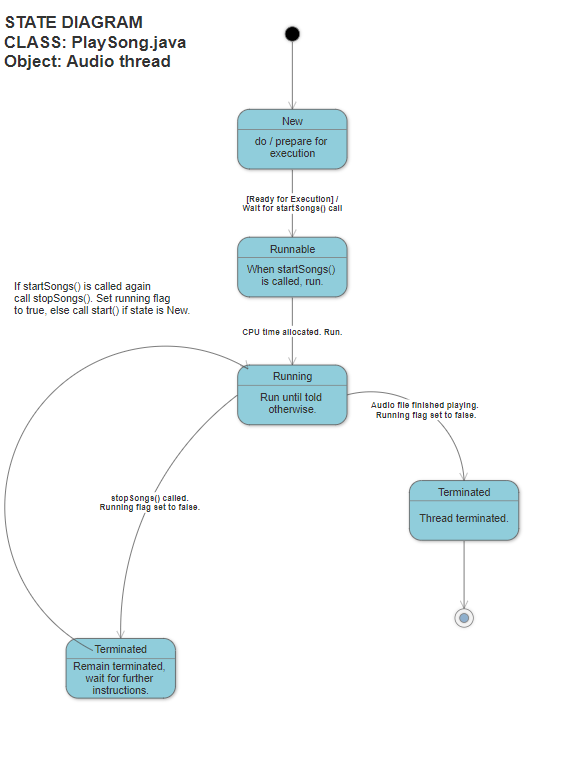
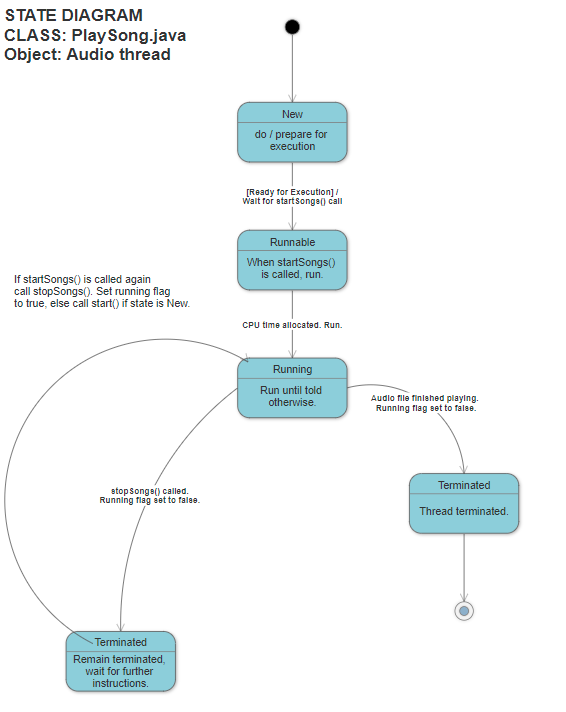
Final submission. Details below.
- Added a new use case diagram
- Added a use case document.
- Quality of life (frontend) changes to the output of the JSP files used in System Level Test examples.
- Input validation added to the MVC application.
- Added a sequence diagram.
- Cropped state diagram.
- Updated review document to reflect new uploads & changes.

diff --git a/src/main/java/mvc/view/RequestData.java b/src/main/java/mvc/view/RequestData.java
@@ -9,23 +9,42 @@ import java.io.InputStreamReader;
 
 public class RequestData {
 	
+	static String name = "";
+	static int height = 0;
+	static double weight = 0;
+	
 	// Request data from user necessary to configure athlete information.
 	public static String requestAthleteData() {
-
-		String name = "";
-		int height = 0;
-		double weight = 0;
 		
 		System.out.println("What is the name of the athlete?");
 		name = (getData());
 		
-		System.out.println("What is the athlete's height?");
-		height = (Integer.parseInt(getData()));
-		
-		System.out.println("What is the athlete's weight?");
-		weight = (Integer.parseInt(getData()));
+		getHeight();
+		getWeight();
 		
 		return (name + "," + height + "," + weight);
+	}
+	
+	static int getHeight() {
+		System.out.println("What is the athlete's height?");
+		try {
+			height = (Integer.parseInt(getData()));			
+		} catch (NumberFormatException e) {
+			System.out.println("Please enter a number.");
+			getHeight();
+		}
+		return height;
+	}
+	
+	static double getWeight() {
+		System.out.println("What is the athlete's weight?");
+		try {
+			weight = (Integer.parseInt(getData()));		
+		} catch (NumberFormatException e) {
+			System.out.println("Please enter a number.");
+			getWeight();
+		}
+		return weight;
 	}
 	
 	// Generic method to read user input.

diff --git a/src/main/java/threads/PlaySong.java b/src/main/java/threads/PlaySong.java
@@ -14,8 +14,7 @@ public class PlaySong {
 	private static final Logger logger = LogManager.getLogger(PlaySong.class);
 	private static final Audio instrumentalThread = new Audio();
 	private static final Audio vocalThread = new Audio();
-	private static final String site = "http://music.faintdev.net/";
-	
+	private static final String site = "http://music.faintdev.net/";	
 	
 	public void stopSongs() {
 		instrumentalThread.stopSong();
